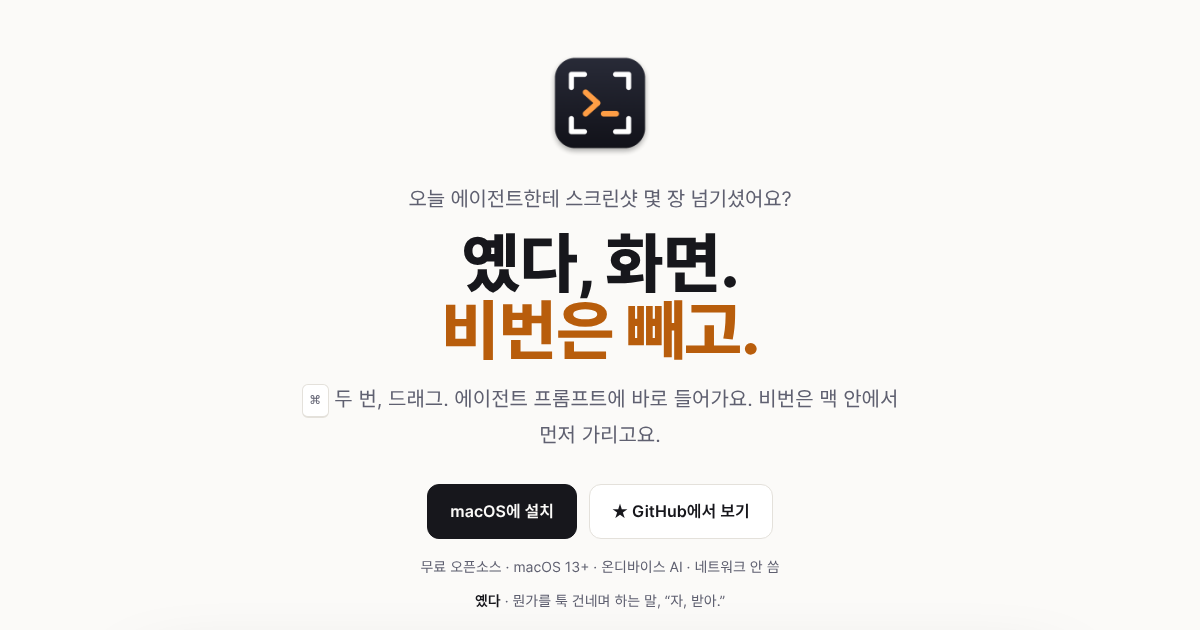
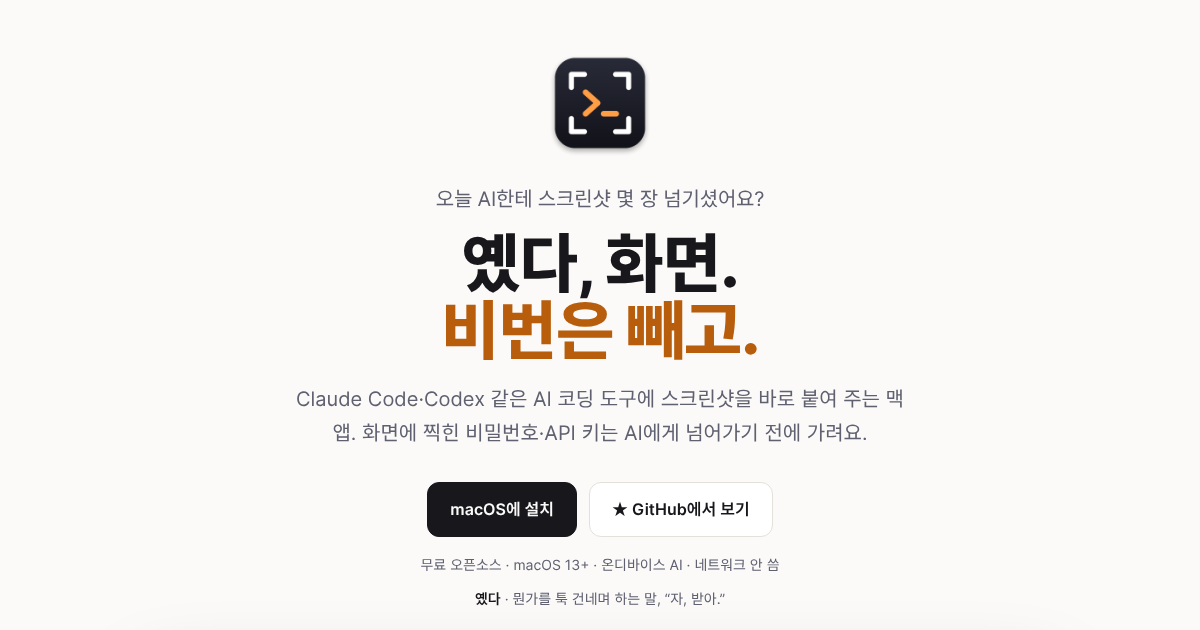
Hero says what it is in plain words
Hook says AI instead of agent; the sub names the category (a Mac app that
pastes screenshots into AI coding tools like Claude Code and Codex) and why
passwords are hidden (before the AI sees them).

Claude-Session: https://claude.ai/code/session_01Fvs9D4jfzzeqk41wXqDAkK

diff --git a/docs/ja/index.html b/docs/ja/index.html
@@ -371,9 +371,9 @@
 
   <header class="hero">
     <img class="logo" src="../icon.png" alt="Yetdaのアイコン">
-    <p class="hook">今日、エージェントに何枚スクショを渡しましたか？</p>
+    <p class="hook">今日、AIに何枚スクショを渡しましたか？</p>
     <h1>画面は見せて、<br><span class="hl">鍵は隠す。</span></h1>
-    <p class="sub"><kbd>⌘</kbd>を2回、ドラッグ。エージェントのプロンプトにそのまま入ります。パスワードはMacの中で先に黒塗り。</p>
+    <p class="sub">Claude CodeやCodexなどのAIコーディングツールに、スクショをそのまま貼り付けるMacアプリ。写り込んだパスワードやAPIキーは、AIに渡す前に隠します。</p>
     <div class="cta">
       <a class="btn primary" href="#install">macOSにインストール</a>
       <a class="btn" href="https://github.com/woonmayer/yetda">★ GitHubで見る</a>

diff --git a/docs/ko/index.html b/docs/ko/index.html
@@ -371,9 +371,9 @@
 
   <header class="hero">
     <img class="logo" src="../icon.png" alt="Yetda 아이콘">
-    <p class="hook">오늘 에이전트한테 스크린샷 몇 장 넘기셨어요?</p>
+    <p class="hook">오늘 AI한테 스크린샷 몇 장 넘기셨어요?</p>
     <h1>옜다, 화면.<br><span class="hl">비번은 빼고.</span></h1>
-    <p class="sub"><kbd>⌘</kbd> 두 번, 드래그. 에이전트 프롬프트에 바로 들어가요. 비번은 맥 안에서 먼저 가리고요.</p>
+    <p class="sub">Claude Code·Codex 같은 AI 코딩 도구에 스크린샷을 바로 붙여 주는 맥 앱. 화면에 찍힌 비밀번호·API 키는 AI에게 넘어가기 전에 가려요.</p>
     <div class="cta">
       <a class="btn primary" href="#install">macOS에 설치</a>
       <a class="btn" href="https://github.com/woonmayer/yetda">★ GitHub에서 보기</a>

diff --git a/docs/index.html b/docs/index.html
@@ -371,9 +371,9 @@
 
   <header class="hero">
     <img class="logo" src="icon.png" alt="Yetda icon">
-    <p class="hook">How many screenshots did you hand your agent today?</p>
+    <p class="hook">How many screenshots did you hand your AI today?</p>
     <h1>Show your agent the screen.<br><span class="hl">Not your keys.</span></h1>
-    <p class="sub">Tap <kbd>⌘</kbd> twice and drag. It lands in your agent's prompt, passwords blacked out on your Mac.</p>
+    <p class="sub">A Mac app that pastes screenshots straight into AI coding tools like Claude Code and Codex. Passwords and API keys in the shot are hidden before the AI sees them.</p>
     <div class="cta">
       <a class="btn primary" href="#install">Install for macOS</a>
       <a class="btn" href="https://github.com/woonmayer/yetda">★ View on GitHub</a>
